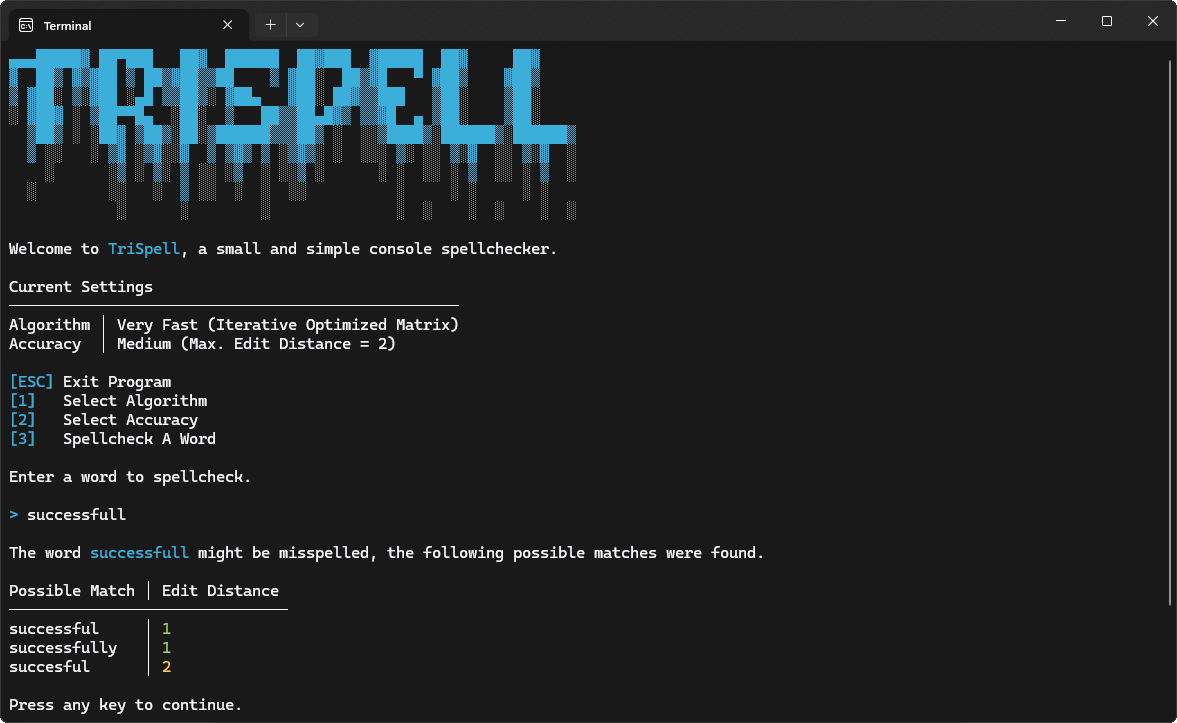
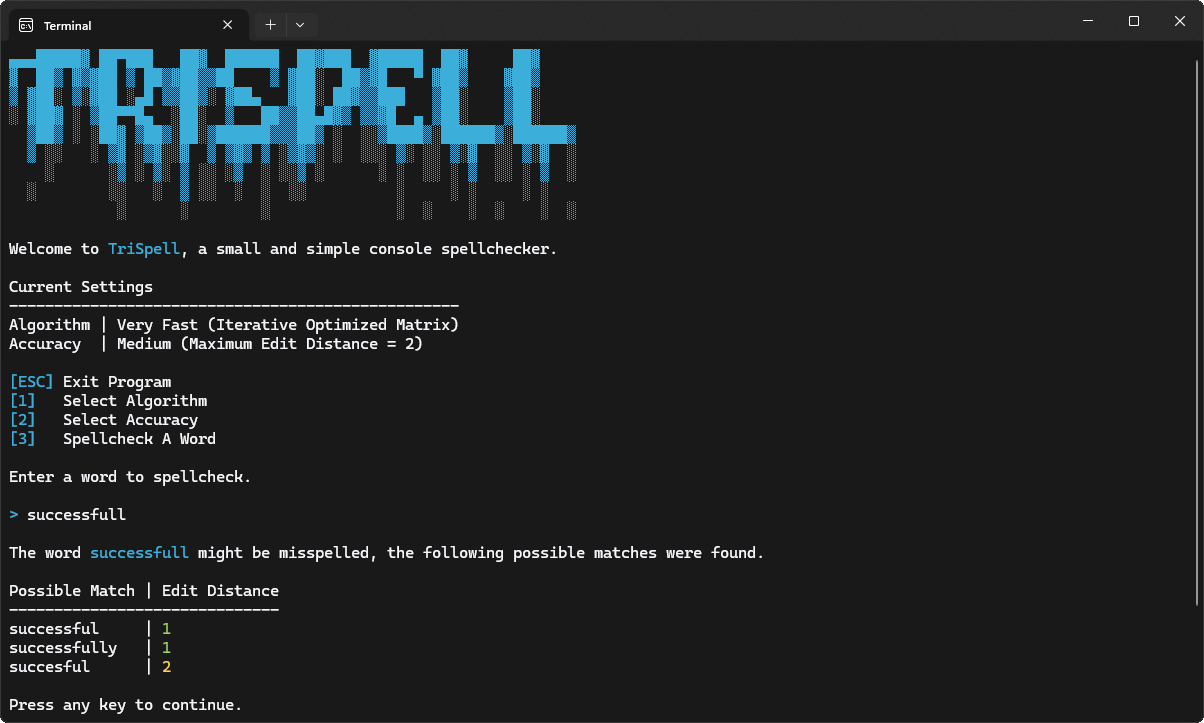
Revert box drawing characters to ASCII for compatibility.

diff --git a/Source/TriSpell.cs b/Source/TriSpell.cs
@@ -40,9 +40,9 @@ internal sealed class TriSpell {
     /// <summary>Description displayed for each <see cref="Accuracy"/>.</summary>
     private static readonly FrozenDictionary<Accuracy, string> AccuracyToDescription =
         FrozenDictionary.ToFrozenDictionary([
-            KeyValuePair.Create(Accuracy.Low, "Low (Max. Edit Distance = 3)"),
-            KeyValuePair.Create(Accuracy.Medium, "Medium (Max. Edit Distance = 2)"),
-            KeyValuePair.Create(Accuracy.High, "High (Max. Edit Distance = 1)")
+            KeyValuePair.Create(Accuracy.Low, "Low (Maximum Edit Distance = 3)"),
+            KeyValuePair.Create(Accuracy.Medium, "Medium (Maximum Edit Distance = 2)"),
+            KeyValuePair.Create(Accuracy.High, "High (Maximum Edit Distance = 1)")
         ]);
 
     /// <summary>Maximum allowed edit distance for each <see cref="Accuracy"/>.</summary>
@@ -165,9 +165,9 @@ internal sealed class TriSpell {
         string accuracyDescription = AccuracyToDescription[accuracy];
         int tableWidth = "Algorithm | ".Length
             + Math.Max(distanceCalculatorDescription.Length, accuracyDescription.Length);
-        WriteLineColored(new string('─', tableWidth), ForegroundColor);
-        WriteLineColored($"Algorithm │ {distanceCalculatorDescription}", ForegroundColor);
-        WriteLineColored($"Accuracy  │ {accuracyDescription}\n", ForegroundColor);
+        WriteLineColored(new string('-', tableWidth), ForegroundColor);
+        WriteLineColored($"Algorithm | {distanceCalculatorDescription}", ForegroundColor);
+        WriteLineColored($"Accuracy  | {accuracyDescription}\n", ForegroundColor);
         WriteColored("[ESC] ", HighlightColor);
         WriteLineColored("Exit Program", ForegroundColor);
         WriteColored("[1]   ", HighlightColor);
@@ -278,16 +278,16 @@ internal sealed class TriSpell {
             }
             else {
                 WriteLineColored(
-                    " might be misspelled, the following possible matches were found.",
+                    " might be misspelled, the following possible matches were found.\n",
                     ForegroundColor
                 );
                 int maxTargetLength = possibleMatches.Max(match => match.Target.Length);
-                string header = "\nPossible Match".PadRight(maxTargetLength) + " │ Edit Distance";
+                string header = "Possible Match".PadRight(maxTargetLength) + " | Edit Distance";
                 WriteLineColored(header, ForegroundColor);
-                WriteLineColored(new string('─', header.Length), ForegroundColor);
+                WriteLineColored(new string('-', header.Length), ForegroundColor);
                 foreach ((string target, int editDistance) in possibleMatches) {
                     int paddingLength = Math.Max(maxTargetLength, "Possible Match".Length);
-                    WriteColored($"{target.PadRight(paddingLength)} │ ", ForegroundColor);
+                    WriteColored($"{target.PadRight(paddingLength)} | ", ForegroundColor);
                     Accuracy targetAccuracy = AccuracyToEditDistance
                         .Last(pair => editDistance <= pair.Value).Key;
                     WriteLineColored(
